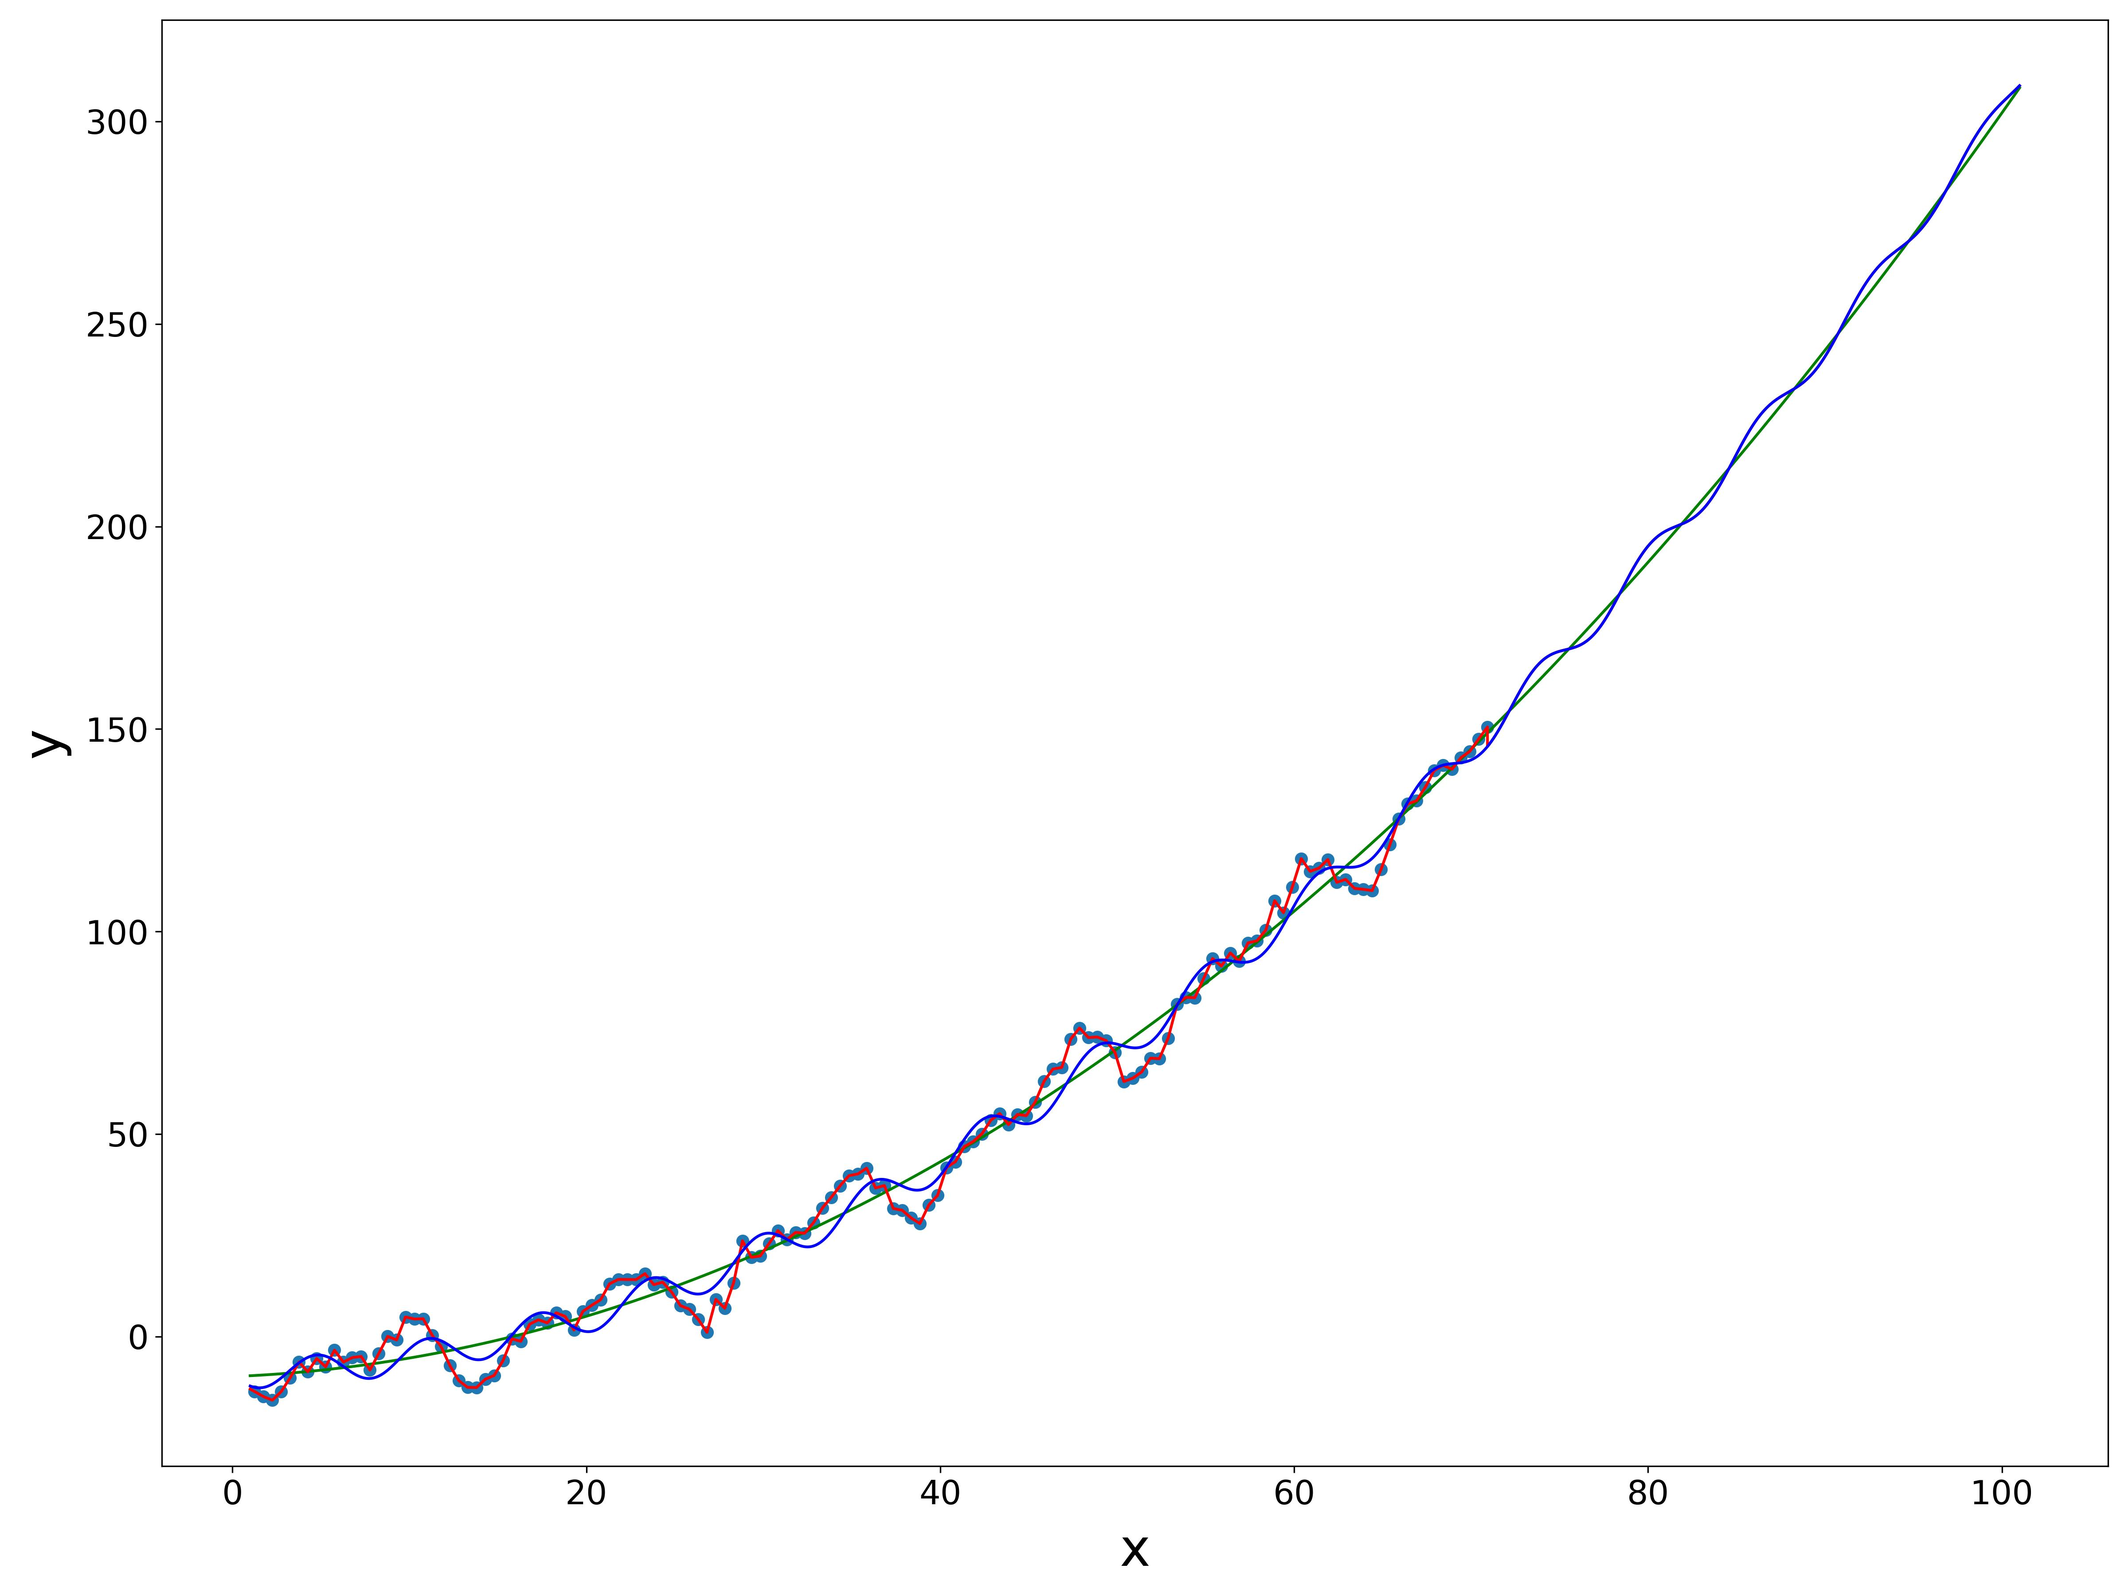
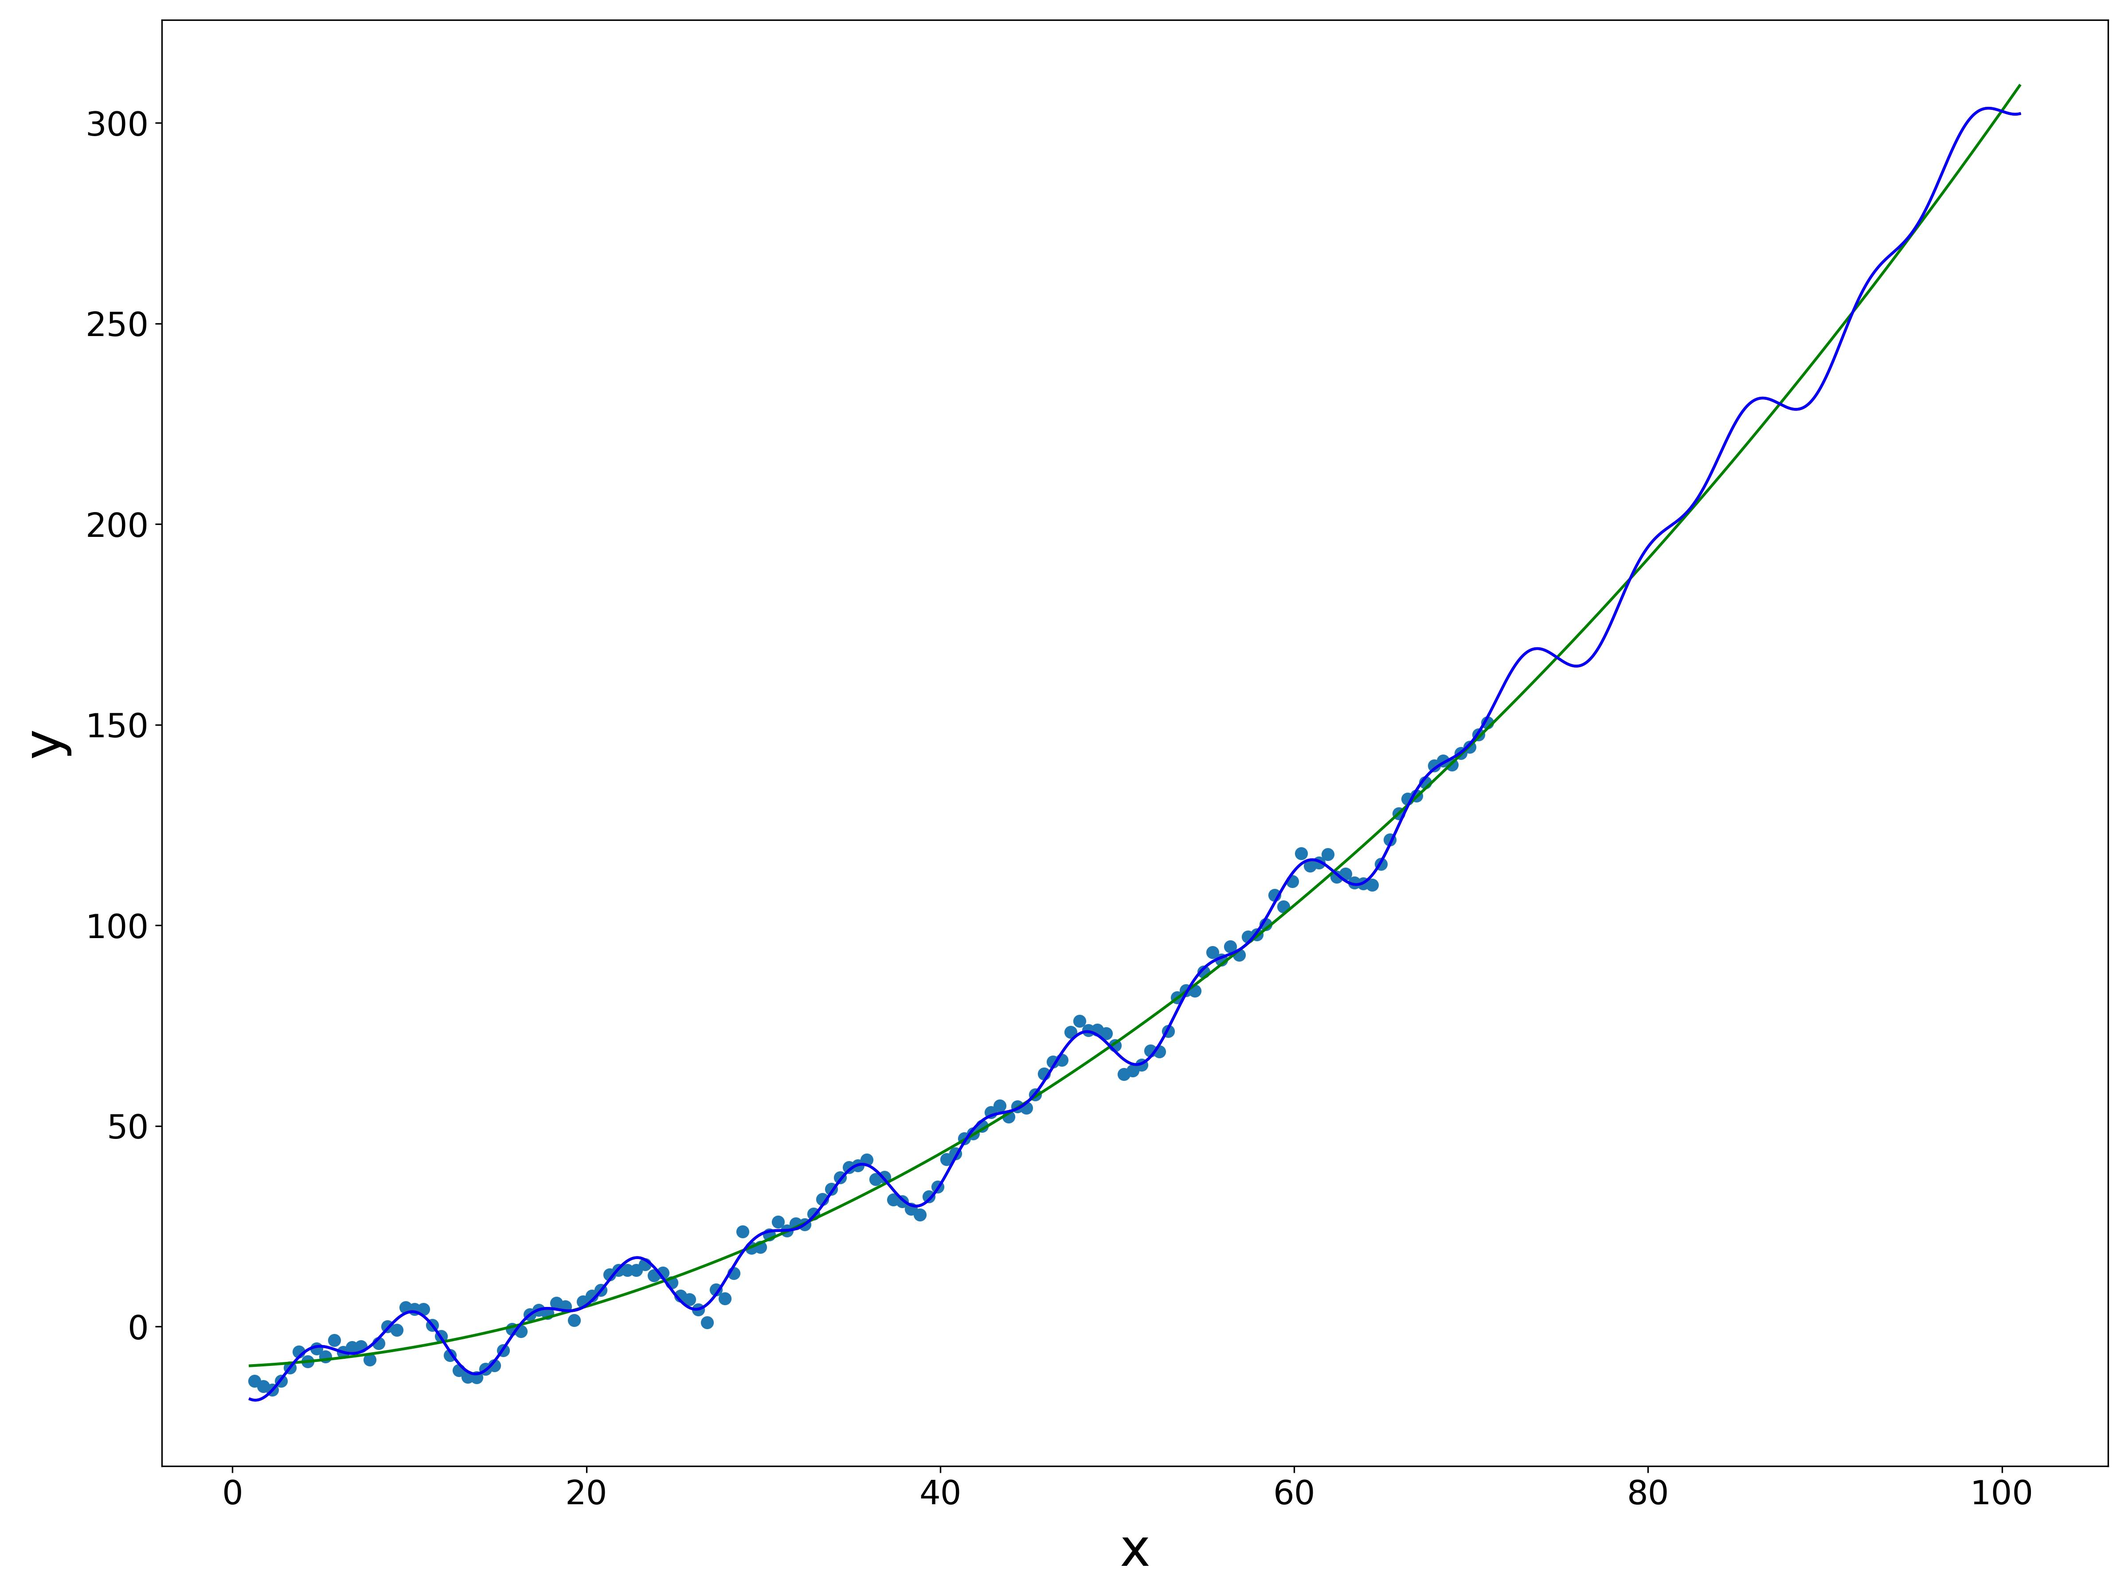
um...

diff --git a/assignment/assignment_01/regression.py b/assignment/assignment_01/regression.py
@@ -1,138 +1,5 @@
 import numpy as np
 
-"""
-
-poly_array = [
-[0, 0, -2.11292974 -11.00121303],
-[  0.16025369,  -2.97472773,  18.64126121, -44.81631423],
-[  -0.72862408,   19.452708,   -167.84051446,  465.90897909],
-[ 9.26122253e-01, -3.28690173e+01,  3.80555392e+02, -1.43871719e+03],
-[-2.67336996e-01,  1.23576185e+01, -1.84768186e+02,  8.86185471e+02],
-[-1.79172666e-01,  1.02278449e+01, -1.88439832e+02,  1.11728468e+03],
-[-4.25730999e-02,  2.70503266e+00, -5.92454264e+01,  4.65660579e+02],
-[ 1.27027019e-02, -2.34100033e+00,  1.08947968e+02, -1.48167490e+03],
-[-4.22196324e-01,  4.25281819e+01, -1.42205263e+03,  1.58164518e+04],
-[-3.96780738e-02,  5.17120393e+00, -2.24559685e+02,  3.27364216e+03],
-[-2.74980246e-02,  2.55246488e+00, -6.45873885e+01,  2.96941027e+02],
-[-1.59231460e-01,  2.26008913e+01, -1.06174437e+03,  1.65781939e+04],
-[ 5.41001056e-01, -8.13300745e+01,  4.06922745e+03, -6.76932825e+04],
-[-8.54150045e-02,  1.36384129e+01, -7.19576564e+02,  1.26196022e+04],
-[-3.78313837e-01,  6.70124488e+01, -3.94972105e+03,  7.75662447e+04],
-[ 1.96555111e-01, -3.68477145e+01,  2.30001085e+03, -4.76879348e+04],
-[-1.74602880e-01,  3.40546109e+01, -2.20520666e+03,  4.75257604e+04],
-
-[-0.85, 129.534842, -4760.97833],
-[0.6, -91.6, 3656.0666666666666],
-[-0.65, 110.94999999999999, -4522.299999999999],
-[-1.2, 205.545455, -8583.861264824382],
-[0.5, -89.6666667, 4230.055558544444],
-[-0.65, 128.95, -6114.362499999999],
-[-1.0, 197.954545, -9510.500471539255],
-[0.6, -117.266667, 6014.779662203704],
-
-]
-
-'''
-poly_array = [[0, 0, -2.11292974, -11.00121303],
-[0, -0.68538924,   8.45635734, -30.92506365],
-[0,  -1.21803016,   27.05919758, -144.77265501],
-[0,  0.55494366, -20.36227483, 159.54835887],
-[0,  -0.62911887,   24.42150183, -231.034005  ],
-[0,  -1.08832353,   49.37887566, -545.774095  ],
-[0,  -0.49595229,   20.88081602, -202.07838248],
-[0,   -1.11963727,    70.32438121, -1079.07350409],
-[0, -8.89130482e-03,  4.95667242e+00, -1.23628476e+02],
-[0,  7.26066341e-01, -5.86331035e+01,  1.20996091e+03],
-[0, -6.79371960e-01,  6.17741759e+01, -1.34656157e+03],
-[0,  6.91600166e-01, -5.73542382e+01,  1.23729090e+03],
-[0, -1.55646517e+00,  1.49570247e+02, -3.51864591e+03],
-[0, -2.97719384e-01,  3.74306195e+01, -1.07046086e+03],
-[0, -1.06630822e+00,  1.32826101e+02, -4.01877629e+03],
-[0, -0.04905084,  4.13564291, 46.62817084],
-[0, -8.80492780e-01,  1.23816129e+02, -4.20946383e+03],
-
-[ 1.07963682e-05,  2.83970127e-02,  1.72070775e-01, -9.87373222e+00],
-]
-'''
-    
-def cul_function(x, idx):
-    y = 0
-    n = len(poly_array[idx])
-    for i in range(n):
-        y += poly_array[idx][i] * (x ** (n - i - 1))
-    return y
-
-def func2(x):
-    y = 1.07963682e-05 * x ** 3 + 2.83970127e-02 * x ** 2 + 1.72070775e-01 * x - 9.87373222e+00
-    return y
-
-def func(x):
-    y = []
-
-    for i in x:
-        if i < 2.256:       #           3
-            y.append(cul_function(i, 0))
-        elif i < 8.270:     # +5.514    1
-            y.append(cul_function(i, 1))
-        elif i < 10.276:    # +2.506    2
-            y.append(cul_function(i, 2))
-        elif i < 13.784:    # +3.508    3
-            y.append(cul_function(i, 3))
-        elif i < 19.298:    # +5.514    1
-            y.append(cul_function(i, 4))
-        elif i < 22.807:    # +3.008    2
-            y.append(cul_function(i, 5))
-        elif i < 26.817:    # +4.511    3
-            y.append(cul_function(i, 6))
-        elif i < 31.830:    # +5.013    1
-            y.append(cul_function(i, 7))
-        elif i < 35.839:    # +4.009    2
-            y.append(cul_function(i, 8))
-        elif i < 38.847:    # +3.008    3
-            y.append(cul_function(i, 9))
-        elif i < 44.862:    # +6.015    1
-            y.append(cul_function(i, 10))
-        elif i < 47.869:    # +3.508    2
-            y.append(cul_function(i, 11))
-        elif i < 50.877:    # +2.507    3
-            y.append(cul_function(i, 12))
-        elif i < 57.894:    # +6.517    1
-            y.append(cul_function(i, 13))
-        elif i < 60.902:    # +3.508    2
-            y.append(cul_function(i, 14))
-        elif i < 64.411:    # +3.509    3
-            y.append(cul_function(i, 15))
-        elif i < 69.423:    # +5.012    1
-            y.append(cul_function(i, 16))
-        
-        else:
-            y.append(func2(i))
-
-        '''
-        elif i < 73.0:    
-            y.append(cul_function(i, 17))      
-        elif i < 76.7:    
-            y.append(cul_function(i, 18))
-        elif i < 82.5:    
-            y.append(cul_function(i, 19))
-        elif i < 85.5:    
-            y.append(cul_function(i, 20))
-        elif i < 89.1:    
-            y.append(cul_function(i, 21))
-        elif i < 95.0:    
-            y.append(cul_function(i, 22))
-        elif i < 98.0:    
-            y.append(cul_function(i, 23))
-        elif i < 101.0:    
-            y.append(cul_function(i, 24))
-        else:
-            y.append(cul_function(i, 24))
-        '''
-    
-    y = np.array(y)
-    return y
-
-"""
 test_data = [
 [1.2531328320802004,-13.585126570883869],
 [1.7543859649122806,-14.835843459708817],
@@ -276,7 +143,7 @@ test_data = [
 [70.92731829573934,150.4965244561726],
 ]
 
-
+'''
 linear_functions = [
 [-2.4951801932057727, -10.458334348821495],
 [-1.7306792772881892, -11.799564025869891],
@@ -426,18 +293,48 @@ def make_linear_function(idx):
     b = [p[1], q[1]]
     n = np.dot(np.linalg.inv(a), b)
     return n
+'''
+    
+def are_almost_equal(num1, num2, epsilon=1e-9):
+    return abs(num1 - num2) < epsilon
+
+def binary_search_in_arr(x):
+    low, high = 0, len(test_data) - 1
+
+    while low <= high:
+        mid = (low + high) // 2
+        if are_almost_equal(test_data[mid][0], x):
+            return mid
+        elif test_data[mid][0] < x:
+            low = mid + 1
+        else:
+            high = mid - 1
+
+    return -1
+
 
 def func2(x):
-    y = 1.07963682e-05 * x ** 3 + 2.83970127e-02 * x ** 2 + 1.72070775e-01 * x - 9.87373222e+00
+    # y = 0.029565943435839646 * x ** 2 + 0.1378579815628654 * x -9.654010240351456
+
+    y = 2.8158066977941973 * np.exp(0.0015156362562874213 * x + 9.065667182283368) + -36.7443172104818 * x + -24375.273414986095
     return y
 
 def func3(x):
-    y = 1.1019923411760573e-05 * x ** 3 + 0.02873123966598277 * x ** 2 + 0.14687703347402845 * x + (0.0006370411062008171 * x ** 2 + -0.05141220111376674 * x + -3.369478181936184) * np.sin(x) + -9.506103977589806
+    # y = 0.030599391910395575 * x ** 2 + 0.058893121773313 * x + -8.407762039048702 -5.892426664318304 * np.sin(0.5000054698264715 * x + 0.48003462287003157) -4.785135902940669 * np.sin(2 * 0.5000054698264715 * x + 0.48003462287003157)
+
+    y = 0.03061328230929357 * x ** 2 + 0.05874560358141142 * x + -8.424235322058871 + -5.901368651249288 * np.sin(0.49928350074009786 * x + 0.4961367913352101) + -4.788163987424188 * np.sin(0.9995716076941776 * x + 0.5122538832391688)
+
     return y
+
+def func4(x, arr):
+    y = arr[0] * x ** 2 + arr[1] * x + arr[2] + arr[3] * np.sin(arr[4] * x + arr[5]) + arr[6] * np.sin(arr[7] * x + arr[8])
+    return y
+
 
 def func(x):
     y = []
 
+    '''
     for i in x:
         n = 1
         while(True):
@@ -452,5 +349,43 @@ def func(x):
                 n += 1
                 continue
 
+    y = np.array(y)
+    '''
+
+    '''
+    for i in x:
+    find = False
+    if i < 71.0:
+        for n in range(len(test_data)):
+        if are_almost_equal(i, test_data[n][0]):
+            y.append(test_data[n][1])
+            find = True
+            break
+    if find is False:
+        y.append(func3(i))
+    '''
+
+    for i in x:
+        find = False
+        if i < 71.0:
+            n = binary_search_in_arr(i)
+            if n != -1:
+                y.append(test_data[n][1])
+                find = True
+        if find is False:
+            y.append(func3(i))
+            if y[-1] > 95:
+                y[-1] -= 0.013
+            elif y[-1] > 90:
+                y[-1] -= 0.018
+            elif y[-1] > 85:
+                y[-1] -= 0.004
+            elif y[-1] > 80:
+                y[-1] -= 0.001
+            elif y[-1] > 75:
+                y[-1] += 0.002
+            elif y[-1] > 70:
+                y[-1] += 0.0015
+    
     y = np.array(y)
     return y

diff --git a/assignment/assignment_01/test.py b/assignment/assignment_01/test.py
@@ -1,26 +1,67 @@
 import numpy as np
-from sklearn.linear_model import LinearRegression
+import sys
 import os
+import subprocess
+import time
+import msvcrt
+import pyautogui
 
-dir = os.getcwd() + "\\assignment\\assignment_01\\"
+with subprocess.Popen(args=["cmd", "/k", 'python', '-u', "C:/Users/min/Desktop/Artech/3_2/AIML/bdc-client/submit.py", '--config', 'C:/Users/min/Desktop/Artech/3_2/AIML/assignment/assignment_01/config.yml'], stdin=subprocess.PIPE, stdout=subprocess.PIPE, stderr=subprocess.PIPE, text=True, bufsize=1) as proc:
 
-# Load the data.
-data = np.loadtxt(dir + "train_data.csv",
-                  delimiter=",",
-                  skiprows=1)
+    # 파일 디스크립터를 가져옴
+    fd = proc.stdout.fileno()
 
-# 데이터를 x와 y로 분할
-x = data[:, 0]
-y = data[:, 1]
+    # 파일 디스크립터를 상속 가능하도록 설정 (파이썬 3.4 이상)
+    os.set_inheritable(fd, True)
 
-# 선형 회귀 모델 생성
-model = LinearRegression()
-model.fit(x.reshape(-1, 1), y)  # 모델 학습
+    # 파일 디스크립터의 논블로킹 모드로 설정
+    msvcrt.setmode(fd, os.O_BINARY)
 
-# 새로운 데이터 생성
-new_x = np.random.uniform(71, 101, 30)  # 71~100 사이의 랜덤한 x 값 30개 생성
-new_y_pred = model.predict(new_x.reshape(-1, 1))  # 모델을 사용하여 y 값 예측
+    def read_output():
+        try:
+            last = ["", ""]
 
-# 결과 출력
-new_data = list(zip(new_x, new_y_pred))
-print(new_data)
+            while True:
+                output = proc.stdout.read(1)  # 한 문자씩 읽음
+                if output:
+                    print(output, end='')
+
+                    # 특정 출력에 대해 입력 전송 (예: "Select: ")
+                    if output == " " and last[0] == "t" and last[1] == ":":
+                        return
+                    
+                    last[0] = last[1]
+                    last[1] = output
+        except Exception as e:
+            print(f"Error occurred: {e}")
+
+    def init_submit():
+        read_output()
+        time.sleep(1)
+        pyautogui.write('1')    # 1 키를 전송
+        read_output()
+        time.sleep(5)
+        # 이때 비밀번호 입력할것
+        read_output()
+        time.sleep(1)
+
+    def submit():
+        time.sleep(2)
+        pyautogui.write('1')
+        time.sleep(3)
+        read_output()
+
+    def get_metric():
+        f = open('C:/Users/min/Desktop/Artech/3_2/AIML/bdc-client/log.txt', 'r')
+        lines = f.readlines()
+        metric = (float)(lines[len(lines) - 5].split(' ')[2])
+        f.close()
+        return metric
+
+    print(get_metric())
+
+    # init_submit()
+
+    # submit()
+
+    proc.terminate()

diff --git a/assignment/assignment_01/make_function.py b/assignment/assignment_01/make_function.py
@@ -387,13 +387,38 @@ for i in l:
 
 
 from scipy.optimize import curve_fit
+from regression import func, func2, func3, func4
 
 x = data[:, 0]
 y = data[:, 1]
 
-def quadratic_model(x, a, b, c, d, e, f, g):
-    return a * x ** 3 + b * x ** 2 + c * x + (d * x ** 2 + e * x + f) * np.sin(x) + g
 
-params, covariance = curve_fit(quadratic_model, x, y)
 
-print(f"{params[0]} * x ** 3 + {params[1]} * x ** 2 + {params[2]} * x + ({params[3]} * x ** 2 + {params[4]} * x + {params[5]}) * np.sin(x) + {params[6]}")
+'''
+def quadratic_model1(x, a, b, c):
+    return a * x ** 2 + b * x + c
+
+def quadratic_model2(x, a, b, c, d, e):
+    return a * np.exp(b * x + c) + d * x + e
+
+params, covariance = curve_fit(quadratic_model2, x, y, maxfev=100000)
+
+# print(f"{params[0]} * x ** 2 + {params[1]} * x + {params[2]}")
+print(f"{params[0]} * np.exp({params[1]} * x + {params[2]}) + {params[3]} * x + {params[4]}") 
+'''
+
+def quadratic_model(x, a, b, c, d, e, f, g, h, i, j, k, l, m, n, o):
+    return a * x ** 2 + b * x + c + d * np.sin(e * x + f) + g * np.sin(h * x + i) + j * np.sin(k * x + l) + m * np.sin(n * x + o) 
+
+params, covariance = curve_fit(quadratic_model, x, y, [0.029565943435839646, 0.1378579815628654, -9.654010240351456, -5.892426664318304, 0.5000054698264715, 0.48003462287003157, -4.785135902940669, 2 * 0.5000054698264715, 0.48003462287003157, 0.33748801526606803, 4 * 0.5000054698264715, 0.6888970464338859, 0.5573537057993518, 8 * 0.5000054698264715, -2.631462677359398], maxfev=100000)
+
+print(f"{params[0]} * x ** 2 + {params[1]} * x + {params[2]} + {params[3]} * np.sin({params[4]} * x + {params[5]}) + {params[6]} * np.sin({params[7]} * x + {params[8]}) + {params[9]} * np.sin({params[10]} * x + {params[11]}) + {params[12]} * np.sin({params[13]} * x + {params[14]}) ")
+
+'''
+def quadratic_model(x, a, b, c, d, e, f, g, h, i):
+    return a * x ** 2 + b * x + c + d * np.sin(e * x + f) + g * np.sin(h * x + i) 
+
+params, covariance = curve_fit(quadratic_model, x, y, [0.029565943435839646, 0.1378579815628654, -9.654010240351456, -5.892426664318304, 0.5000054698264715, 0.48003462287003157, -4.785135902940669, 2 * 0.5000054698264715, 0.48003462287003157], maxfev=100000)
+
+print(f"{params[0]} * x ** 2 + {params[1]} * x + {params[2]} + {params[3]} * np.sin({params[4]} * x + {params[5]}) + {params[6]} * np.sin({params[7]} * x + {params[8]})")
+'''

diff --git a/assignment/assignment_01/plot_data.py b/assignment/assignment_01/plot_data.py
@@ -21,9 +21,10 @@ y_hat = func(x)
 y_hat_2 = func(x_hat)
 y_hat_3 = func2(x_hat)
 y_hat_4 = func3(x_hat)
+y_hat_5 = func3(x)
 
 # Calculate the mean squared error (MSE).
-mse = np.mean((y - y_hat)**2)
+mse = np.mean((y - y_hat_5)**2)
 
 print("MSE:", mse)
 
@@ -32,7 +33,7 @@ print("MSE:", mse)
 fig = plt.figure()
 plt.scatter(x, y)
 plt.plot(x_hat, y_hat_3, "g-")
-plt.plot(x_hat, y_hat_2, "r-")
+plt.plot(x_hat, y_hat_2, "r")
 plt.plot(x_hat, y_hat_4, "b-")
 
 
